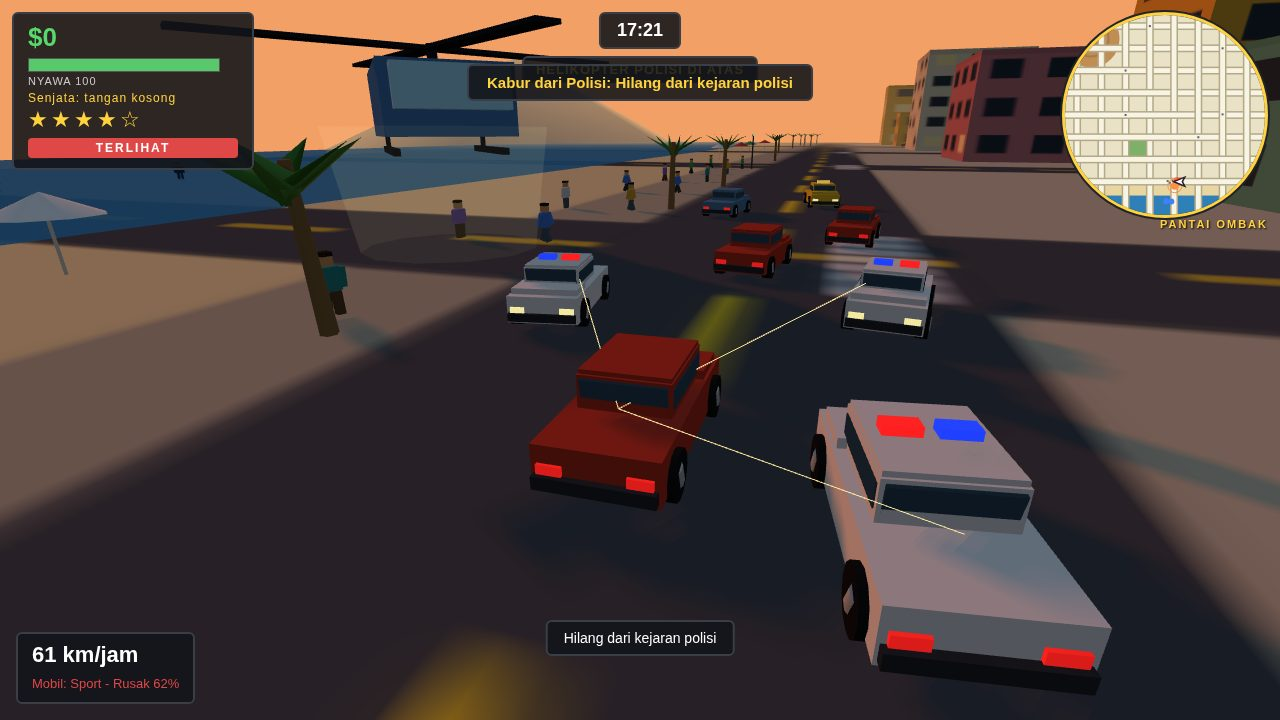
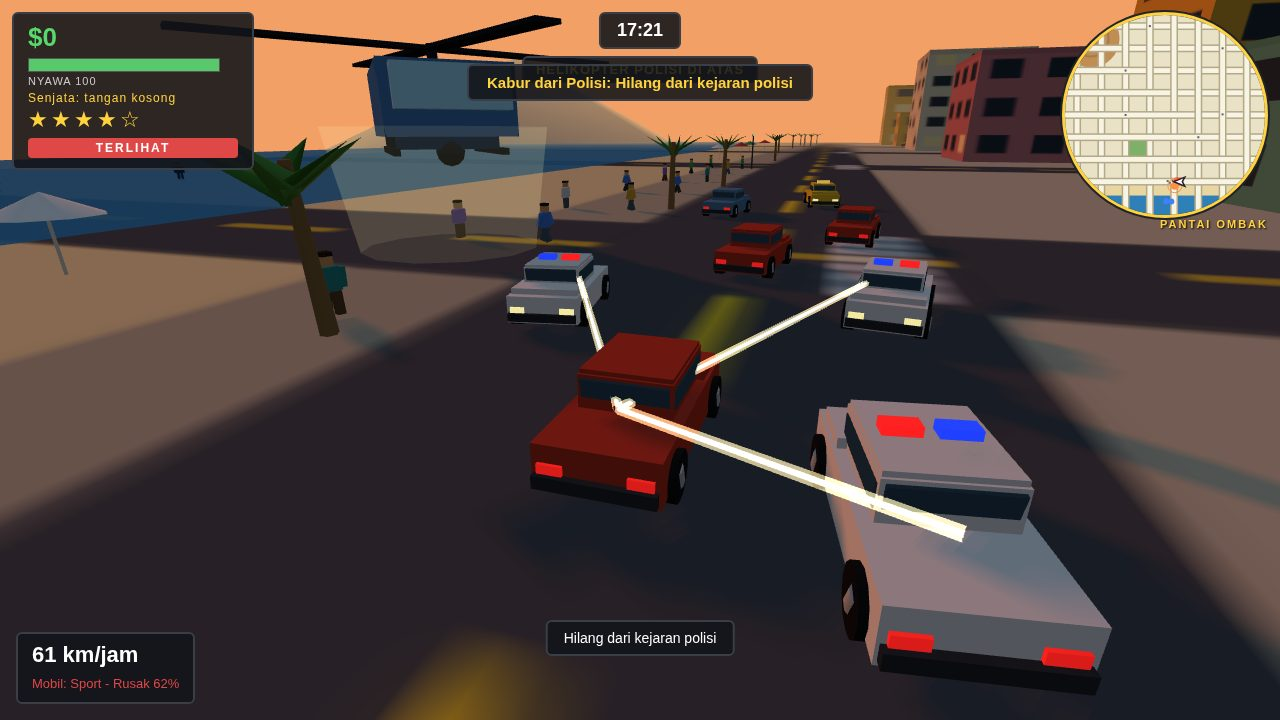
solmarina polish 6: glowing tracers, bigger gangs, filled 2-drive foreground, heli underside, mission label shift

diff --git a/game/src/render.js b/game/src/render.js
@@ -576,11 +576,34 @@ export function makeHeliMesh() {
     strut.position.set(sx * 1.1, -0.75, 0.8);
     g.add(skid, strut);
   }
+  // belly: a darker inset panel + sensor ball + second strut pair, so
+  // the underside reads as a helicopter from below instead of a flat
+  // slab (the chase camera sits below the heli)
+  const belly = box(2.0, 0.3, 3.0, mat(0x1e3a5f));
+  belly.position.y = -0.8;
+  g.add(belly);
+  const sensor = new THREE.Mesh(new THREE.SphereGeometry(0.3, 8, 6), mat(0x22242a));
+  sensor.position.set(0, -1.0, -1.3);
+  g.add(sensor);
+  for (const sx of [-1, 1]) {
+    const strut2 = box(0.1, 0.5, 0.1, mat(0x22242a));
+    strut2.position.set(sx * 1.1, -0.75, -0.8);
+    g.add(strut2);
+  }
+  // tail rotor on the fin, so the tail reads from the side too
+  const tailRotor = new THREE.Group();
+  for (const a of [0, Math.PI / 2]) {
+    const blade = box(0.08, 1.1, 0.12, bladeMat);
+    blade.rotation.x = a;
+    tailRotor.add(blade);
+  }
+  tailRotor.position.set(0.2, 0.8, 6.0);
+  g.add(tailRotor);
   // searchlight cone pointing down (subtle: at golden hour a bright
   // cone reads as a grey sail, so it stays faint)
   const beam = new THREE.Mesh(
     new THREE.ConeGeometry(2.5, 16, 12, 1, true),
-    new THREE.MeshBasicMaterial({ color: 0xfff2b0, transparent: true, opacity: 0.05, side: THREE.DoubleSide, depthWrite: false }),
+    new THREE.MeshBasicMaterial({ color: 0xfff2b0, transparent: true, opacity: 0.10, side: THREE.DoubleSide, depthWrite: false }),
   );
   beam.position.y = -8.5;
   beam.rotation.x = Math.PI; // apex up at the heli
@@ -837,47 +860,64 @@ export function createParticles(scene) {
 }
 
 // ---------- tracer lines ----------
-// Gunfire reads as lines, not dots: a pool of 1px lines that flash
-// between shooter and target and fade fast (0.12s live). Staged shots
-// fire them with a long life instead, so the captured frame keeps them.
+// Gunfire reads as glowing bolts, not dots or wires: a pool of short
+// additive cylinders (bright white core + coloured halo) stretched
+// between shooter and target, fading fast (0.12s live). THREE.Line is
+// always 1px no matter the distance, so at screenshot range it read as
+// a wire; a cylinder keeps real thickness from every angle. Staged
+// shots fire them with a long life instead, so the captured frame
+// keeps them.
+const _tracerUp = new THREE.Vector3(0, 1, 0);
 export function createTracers(scene) {
   const N = 24;
-  const lines = [];
+  const bolts = [];
+  const outerGeo = new THREE.CylinderGeometry(0.09, 0.09, 1, 6, 1, true);
+  const coreGeo = new THREE.CylinderGeometry(0.04, 0.04, 1, 6, 1, true);
   for (let i = 0; i < N; i++) {
-    const geo = new THREE.BufferGeometry();
-    geo.setAttribute('position', new THREE.BufferAttribute(new Float32Array(6), 3));
-    const material = new THREE.LineBasicMaterial({ color: 0xffe9a0, transparent: true, opacity: 0 });
-    const line = new THREE.Line(geo, material);
-    line.frustumCulled = false;
-    line.visible = false;
-    scene.add(line);
-    lines.push({ line, life: 0, max: 1 });
+    const outerMat = new THREE.MeshBasicMaterial({ color: 0xffe9a0, transparent: true, opacity: 0, blending: THREE.AdditiveBlending, depthWrite: false });
+    const coreMat = new THREE.MeshBasicMaterial({ color: 0xffffff, transparent: true, opacity: 0, blending: THREE.AdditiveBlending, depthWrite: false });
+    const group = new THREE.Group();
+    group.add(new THREE.Mesh(outerGeo, outerMat), new THREE.Mesh(coreGeo, coreMat));
+    group.visible = false;
+    scene.add(group);
+    bolts.push({ group, outerMat, coreMat, life: 0, max: 1 });
   }
   let cursor = 0;
+  const dir = new THREE.Vector3();
+  const mid = new THREE.Vector3();
   return {
     fire(from, to, color, life) {
-      const t = lines[cursor];
+      const t = bolts[cursor];
       cursor = (cursor + 1) % N;
-      const pos = t.line.geometry.attributes.position.array;
-      pos[0] = from.x; pos[1] = from.y; pos[2] = from.z;
-      pos[3] = to.x; pos[4] = to.y; pos[5] = to.z;
-      t.line.geometry.attributes.position.needsUpdate = true;
-      t.line.material.color.setHex(color || 0xffe9a0);
+      dir.set(to.x - from.x, to.y - from.y, to.z - from.z);
+      const len = dir.length();
+      if (len < 0.05) { t.group.visible = false; t.life = 0; return; }
+      dir.divideScalar(len);
+      mid.set((from.x + to.x) / 2, (from.y + to.y) / 2, (from.z + to.z) / 2);
+      t.group.position.copy(mid);
+      t.group.quaternion.setFromUnitVectors(_tracerUp, dir);
+      t.group.scale.set(1, len, 1);
+      const c = color || 0xffe9a0;
+      t.outerMat.color.setHex(c);
+      t.coreMat.color.setHex(c).lerp(new THREE.Color(0xffffff), 0.7);
       t.life = life || 0.12;
       t.max = t.life;
-      t.line.material.opacity = 1;
-      t.line.visible = true;
+      t.outerMat.opacity = 0.7;
+      t.coreMat.opacity = 1;
+      t.group.visible = true;
     },
     update(dt) {
-      for (const t of lines) {
+      for (const t of bolts) {
         if (t.life > 0) {
           t.life -= dt;
-          t.line.material.opacity = Math.max(0, t.life / t.max);
-          if (t.life <= 0) t.line.visible = false;
+          const f = Math.max(0, t.life / t.max);
+          t.outerMat.opacity = 0.7 * f;
+          t.coreMat.opacity = f;
+          if (t.life <= 0) t.group.visible = false;
         }
       }
     },
-    get activeCount() { return lines.filter((t) => t.life > 0).length; },
+    get activeCount() { return bolts.filter((t) => t.life > 0).length; },
   };
 }
 

diff --git a/game/src/shots.js b/game/src/shots.js
@@ -3,6 +3,7 @@
 // window.__solmarinaReady. Scenes: 1-start (title), 2-drive, 3-chase,
 // 4-mission. All state is set from the live game, never faked.
 import { SPAWNS, STALLS } from './config.js';
+import { makeLamp, makeHydrant, makeStallMesh } from './render.js';
 import { balanceUnits } from './police.js';
 import { createGangWar, crossfireLines } from './gangs.js';
 
@@ -75,10 +76,17 @@ export function stageShot(G, name) {
     crossfireLines(G.gangs).forEach((line, i) => {
       const from = { ...line.from, y: 1.0 + (i % 2) * 0.6 };
       const to = { ...line.to, y: 1.6 - (i % 2) * 0.6 };
-      // twice, 0.06 apart: THREE.Line is 1px and a single line is too
-      // thin to read as gunfire at this distance
-      G.tracers.fire(from, to, line.color, 5);
-      G.tracers.fire({ ...from, y: from.y + 0.06 }, { ...to, y: to.y + 0.06 }, line.color, 5);
+      // once per line, and SHORT: a streak from the muzzle, not a
+      // full-width beam. 8 full-length parallel bolts in one screen band
+      // saturate into a white bar; staggered reaches (45-62%) keep 8
+      // distinct diagonal streaks and leave the gang members visible.
+      const f = [0.5, 0.62, 0.45, 0.58][i % 4];
+      const shortTo = {
+        x: from.x + (to.x - from.x) * f,
+        y: from.y + (to.y - from.y) * f,
+        z: from.z + (to.z - from.z) * f,
+      };
+      G.tracers.fire(from, shortTo, line.color, 5);
     });
     for (const m of G.gangs.members.slice(0, 4)) {
       G.effects.burst(m.x, 1.3, m.z, 10, [1, 0.9, 0.5], 4, 1);
@@ -99,6 +107,34 @@ export function stageShot(G, name) {
       ped.state = 'flee';
       ped.heading = Math.PI; // facing south, away from the street
     });
+    // foreground fill (the v5 gap: the bottom of the frame was bare
+    // pavement): parked cars along the south kerb, lamps + hydrants at
+    // the frame edges, more fleeing peds close to the camera, and a
+    // market stall half-cut at the left edge, so the bottom of the shot
+    // is street life, not empty asphalt. Positions sit at z 132-134:
+    // the first pass put them at z 137-141 and they fell below the
+    // frame's bottom edge (short props that close to the camera are
+    // under the bottom ray); the fleeing peds at z 134 render at the
+    // bottom edge, so the fill mirrors that band.
+    traffic.slice(2, 5).forEach((c, i) => {
+      const spots = [
+        { x: 136, z: 133, heading: Math.PI / 2 },
+        { x: 164, z: 133, heading: -Math.PI / 2 },
+        { x: 150, z: 134, heading: Math.PI / 2 },
+      ];
+      c.x = spots[i].x; c.z = spots[i].z; c.heading = spots[i].heading; c.speed = 0;
+    });
+    G.peds.list.slice(8, 12).forEach((ped, i) => {
+      ped.x = 134 + i * 10;
+      ped.z = 132;
+      ped.state = 'flee';
+      ped.heading = Math.PI;
+    });
+    const lampL = makeLamp(); lampL.position.set(128, 0, 134); G.scene.add(lampL);
+    const lampR = makeLamp(); lampR.position.set(172, 0, 134); G.scene.add(lampR);
+    const hydL = makeHydrant(); hydL.position.set(144, 0, 134); G.scene.add(hydL);
+    const hydR = makeHydrant(); hydR.position.set(156, 0, 134); G.scene.add(hydR);
+    const stallF = makeStallMesh(STALLS[1]); stallF.position.set(120, 0, 134); G.scene.add(stallF);
     // police: 2 stars, one foot cop closing in from the east side
     G.wanted.addHeat(30);
     balanceUnits(G.police, G.wanted.stars, G.player.x, G.player.z, G.rng);

diff --git a/game/src/hud.js b/game/src/hud.js
@@ -161,18 +161,28 @@ export function createHud(buildings) {
     const tints = ['rgba(224,120,86,0.25)', 'rgba(95,158,143,0.25)', 'rgba(224,168,60,0.25)', 'rgba(138,155,176,0.25)', 'rgba(88,160,92,0.25)', 'rgba(201,123,132,0.25)', 'rgba(93,125,217,0.25)', 'rgba(47,127,184,0.25)'];
     mapCtx.font = 'bold 15px Arial, sans-serif';
     mapCtx.textAlign = 'center';
+    // mission step/target first: a district label must never read
+    // through a marker. The 4-mission shot put both the player arrow
+    // and the mission marker on PASAR MALAM, so any label whose text
+    // box a marker would land on moves up clear of it.
+    const step = G.missions.currentStep();
+    const target = step && step.target ? step.target : null;
+    const px = mx(G.player.x), py = mz(G.player.z);
+    const tx = target ? mx(target.x) : -9999, ty = target ? mz(target.z) : -9999;
     DISTRICTS.forEach((d, i) => {
       mapCtx.fillStyle = tints[i % tints.length];
       mapCtx.fillRect(mx(d.x - d.w / 2), mz(d.z - d.h / 2), (d.w / 660) * MAPW, (d.h / 720) * MAPH);
       mapCtx.strokeStyle = 'rgba(255,255,255,0.85)';
       mapCtx.lineWidth = 3;
-      mapCtx.strokeText(d.name.toUpperCase(), mx(d.x), mz(d.z) + 5);
+      let ly = mz(d.z) + 5;
+      const lx = mx(d.x);
+      const onMarker = (x, y) => Math.abs(x - lx) < 70 && Math.abs(y - ly) < 26;
+      if (onMarker(px, py) || onMarker(tx, ty)) ly -= 32;
+      mapCtx.strokeText(d.name.toUpperCase(), lx, ly);
       mapCtx.fillStyle = '#22242a';
-      mapCtx.fillText(d.name.toUpperCase(), mx(d.x), mz(d.z) + 5);
+      mapCtx.fillText(d.name.toUpperCase(), lx, ly);
     });
     // mission route polyline (player -> target along the road grid)
-    const step = G.missions.currentStep();
-    const target = step && step.target ? step.target : null;
     if (target) {
       const pts = routePoints({ x: G.player.x, z: G.player.z }, target);
       mapCtx.strokeStyle = '#e04848';

diff --git a/game/src/main.js b/game/src/main.js
@@ -127,6 +127,15 @@ function meshForGang(member) {
   if (!gangMeshes.has(member)) {
     const mesh = makeHumanMesh(member.shirt, member.pants, 0xd9a066);
     mesh.userData.ref = { kind: 'gang', member, war: G.gangs };
+    // gang members read bigger and brighter than peds, and the team
+    // colour must be obvious at a glance in the night shootout: 1.3x
+    // scale plus a glowing team headband (peds keep the dark hair).
+    mesh.scale.setScalar(1.3);
+    const bandColor = member.gang === 'ombak' ? 0x35e0f5 : 0xff5a3c;
+    const bandMat = new THREE.MeshLambertMaterial({ color: bandColor, emissive: bandColor, emissiveIntensity: 0.7 });
+    const band = new THREE.Mesh(new THREE.BoxGeometry(0.38, 0.09, 0.36), bandMat);
+    band.position.y = 1.78;
+    mesh.add(band);
     scene.add(mesh);
     gangMeshes.set(member, mesh);
   }

diff --git a/game/src/config.js b/game/src/config.js
@@ -161,8 +161,8 @@ export const GANGS = {
   heatPerSecond: 0.4, // gunfire draws police while the player watches
   cooldown: 60, // seconds before the war can start again
   sides: [
-    { id: 'ombak', name: 'Geng Ombak', shirt: 0x1f9db0, pants: 0x1d2f38 },
-    { id: 'bara', name: 'Geng Bara', shirt: 0xd93a2b, pants: 0x2e2a26 },
+    { id: 'ombak', name: 'Geng Ombak', shirt: 0x2cc3e6, pants: 0x1d2f38 },
+    { id: 'bara', name: 'Geng Bara', shirt: 0xef4a32, pants: 0x2e2a26 },
   ],
 };
 
